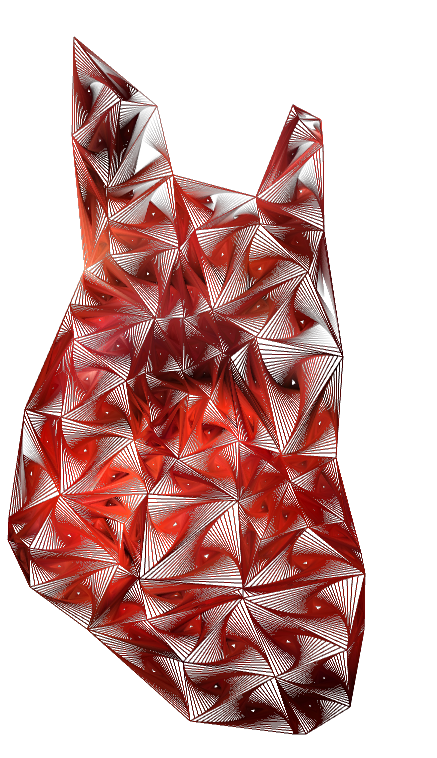
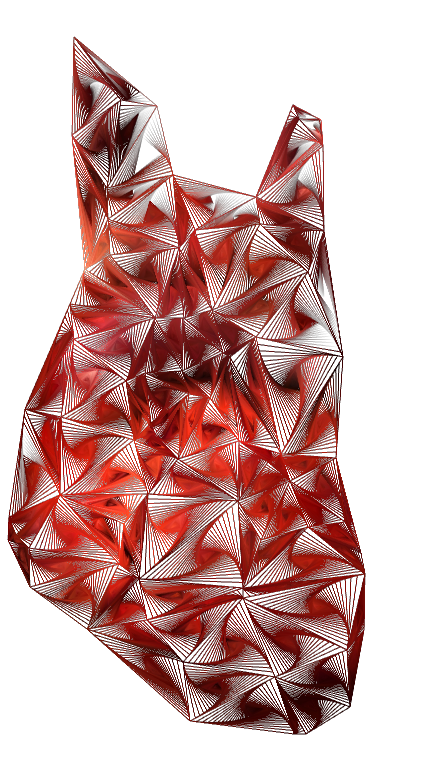
Messed around with using filled triangles instead of lines. I liked lines more

Changed region(s): [[0.0297, 0.0607, 0.833, 0.971]]

diff --git a/SpiralTriangle/SpiralTriangle.cpp b/SpiralTriangle/SpiralTriangle.cpp
@@ -144,8 +144,8 @@ int main() {
         vertices.push_back(Vertex(points[0], img.getPixel(points[0].x, points[0].y)));
     }
 
-    int iterations = 32;
-    float t = 1.f / 18.f;
+    int iterations = 64;
+    float t = 1.f / 16.f;
 
     CircleShape c(50.f);
 
